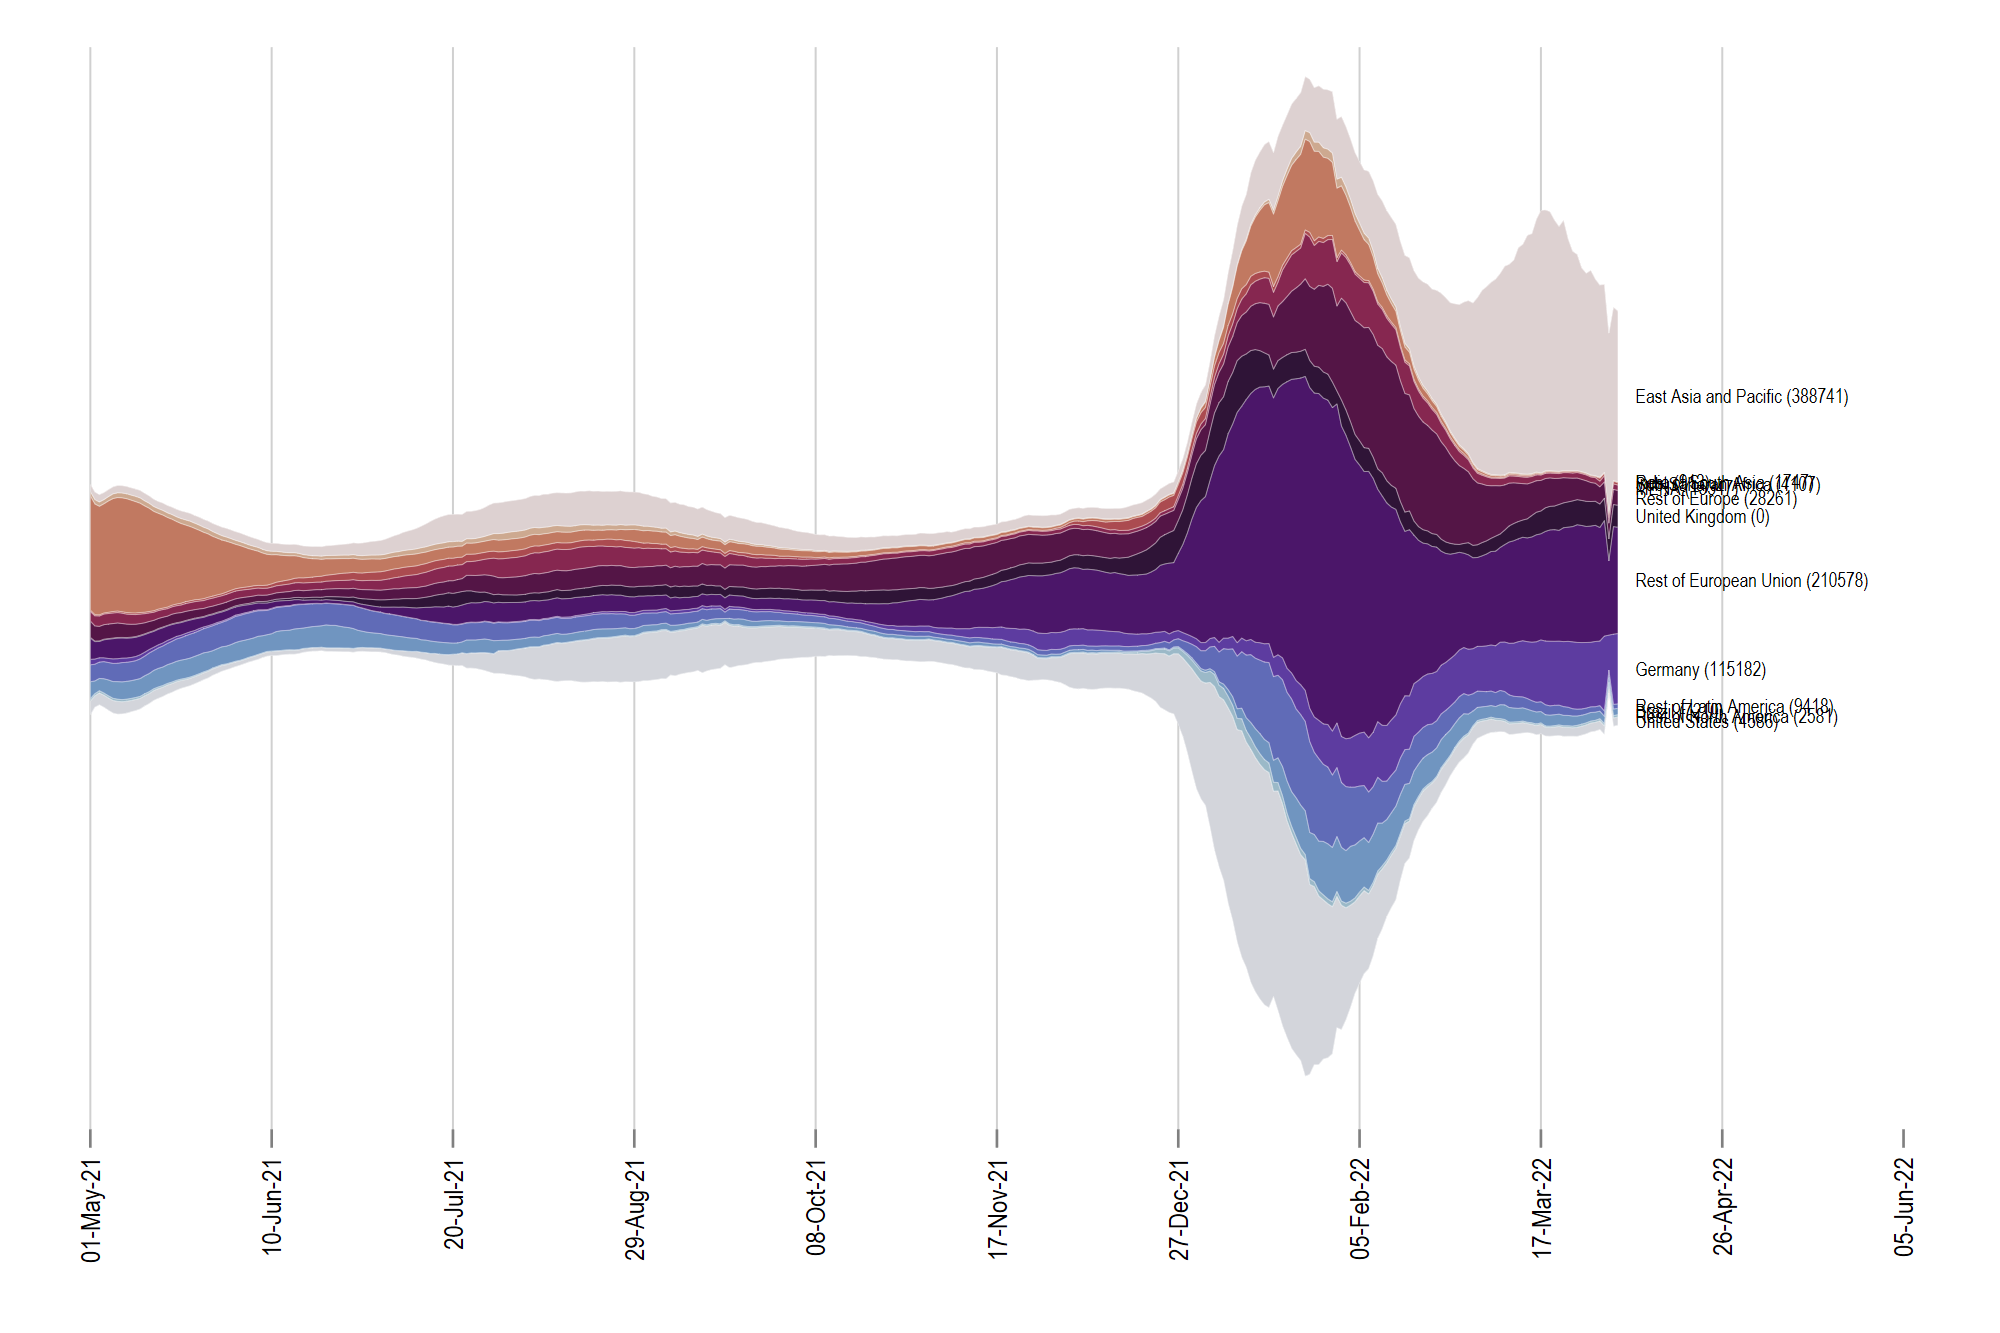
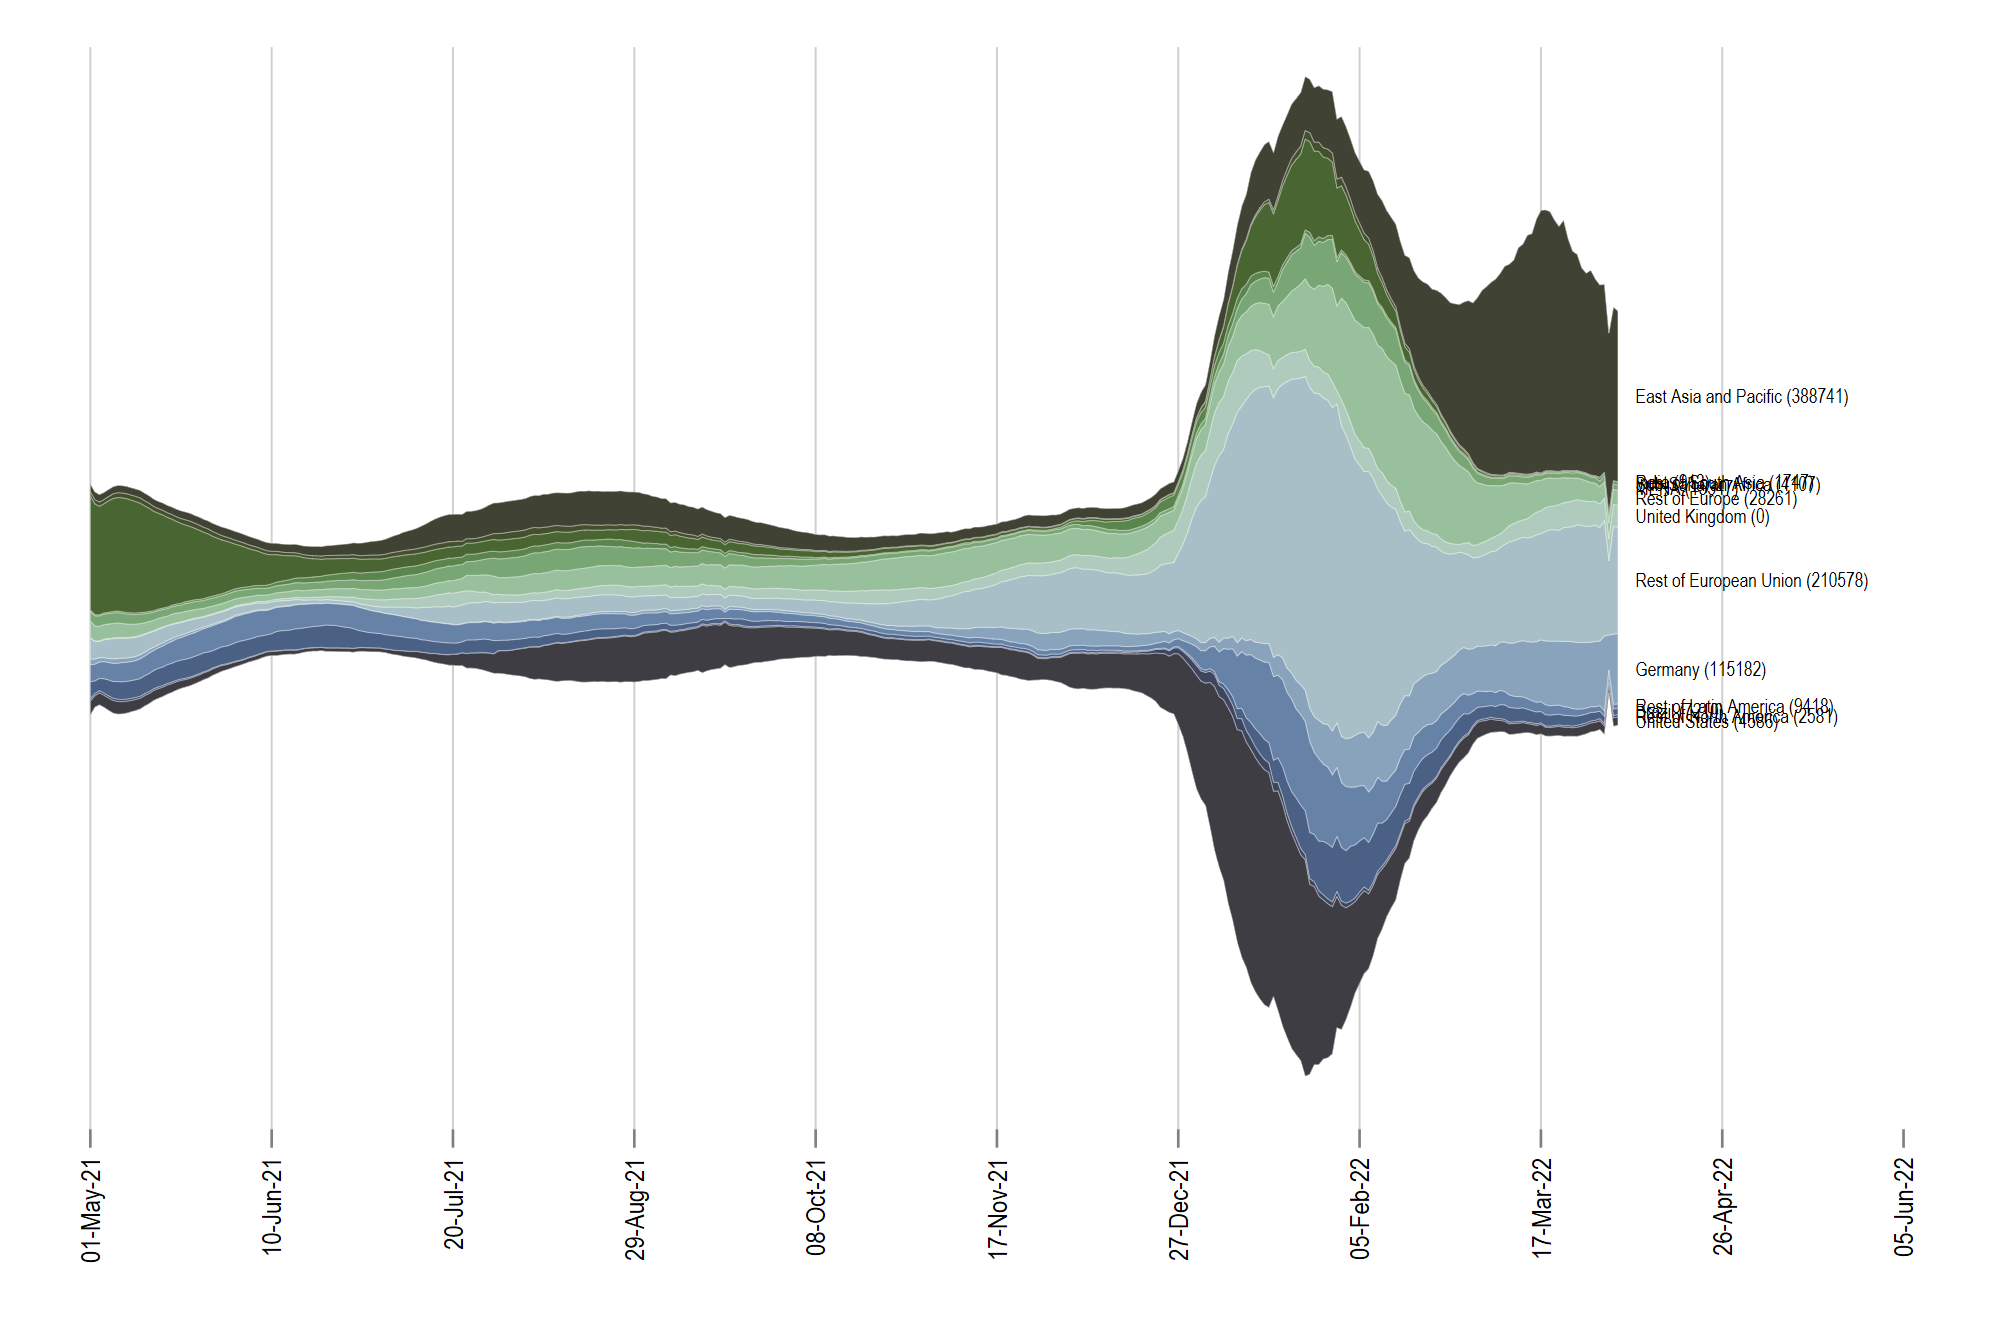
minor fixes to palette passthru

Changed region(s): [[0.031, 0.0615, 0.806, 0.7997]]

diff --git a/README.md b/README.md
@@ -107,17 +107,27 @@ We can generate basic graphs as follows:
 
 ```
 streamplot new_cases date, by(region)
+```
 
-streamplot new_cases date if date > 22400, by(region) palette(twilight) 
+<img src="/figures/streamplot1.png" height="600">
 
+```
+streamplot new_cases date if date > 22400, by(region) palette(scico corko) lw(0.02)
+```
+
+<img src="/figures/streamplot2.png" height="600">
+
+```
 streamplot new_cases date, by(region) xlinew(medium)
+```
 
+<img src="/figures/streamplot3.png" height="600">
+
+```
 streamplot new_cases date, by(region) xlinec(none)
 ```
 
-<img src="/figures/streamplot1.png" height="250"><img src="/figures/streamplot2.png" height="250">
-<img src="/figures/streamplot3.png" height="250"><img src="/figures/streamplot4.png" height="250">
-
+<img src="/figures/streamplot4.png" height="600">
 
 
 We can add additional options, for example, conditional labeling:
